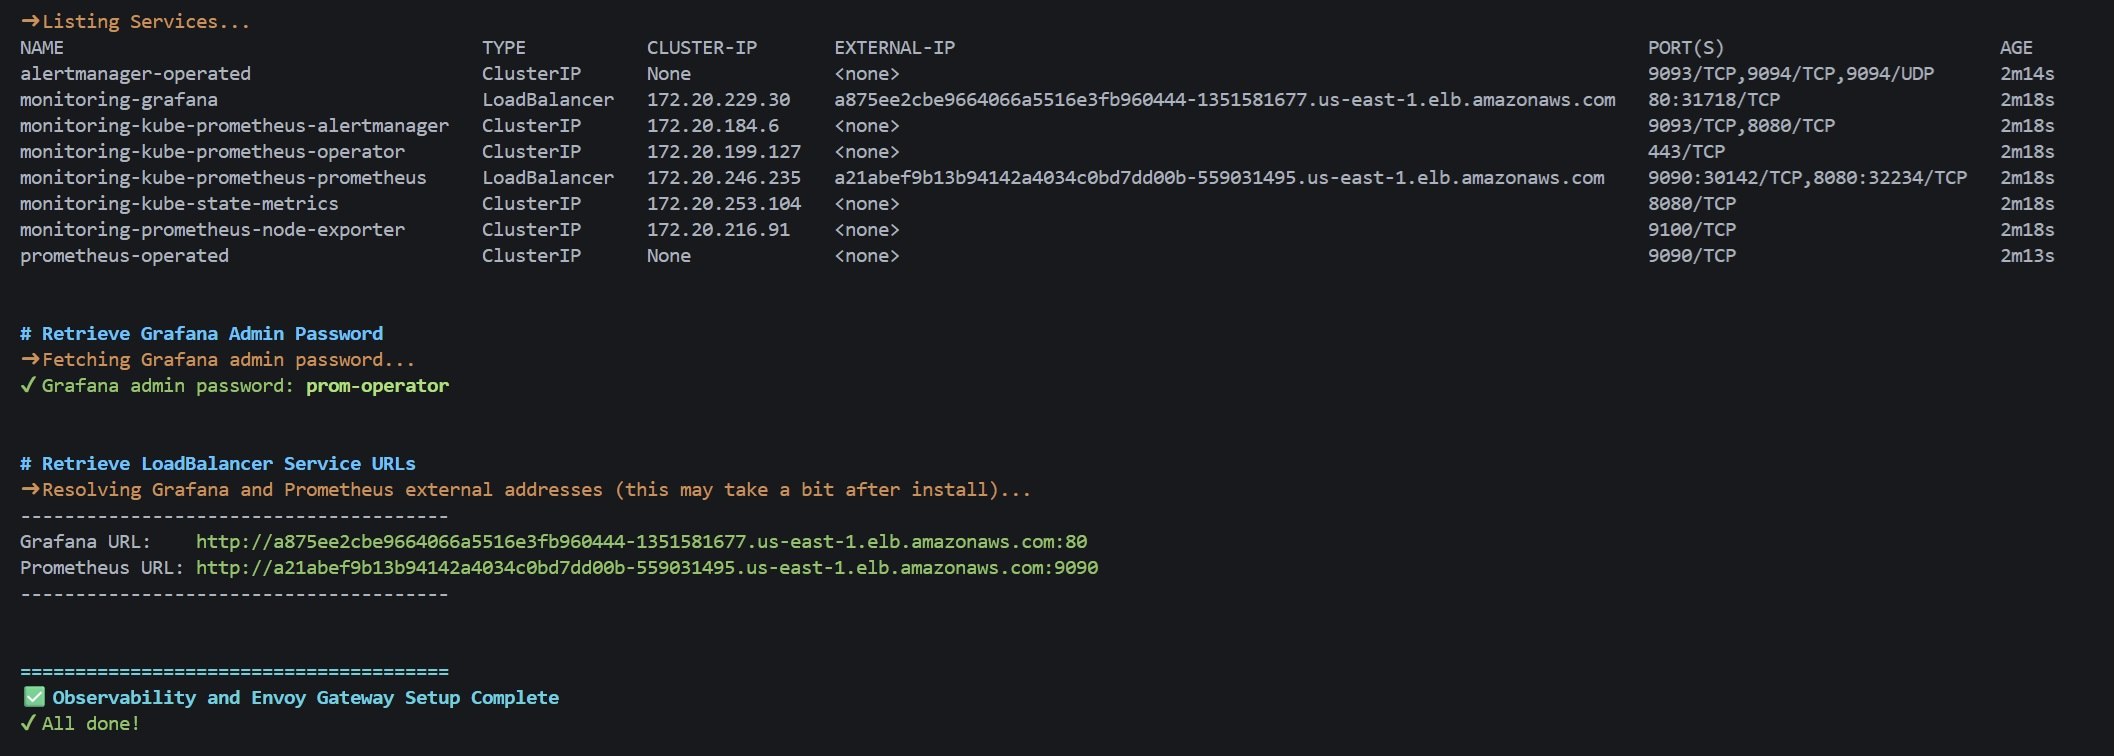
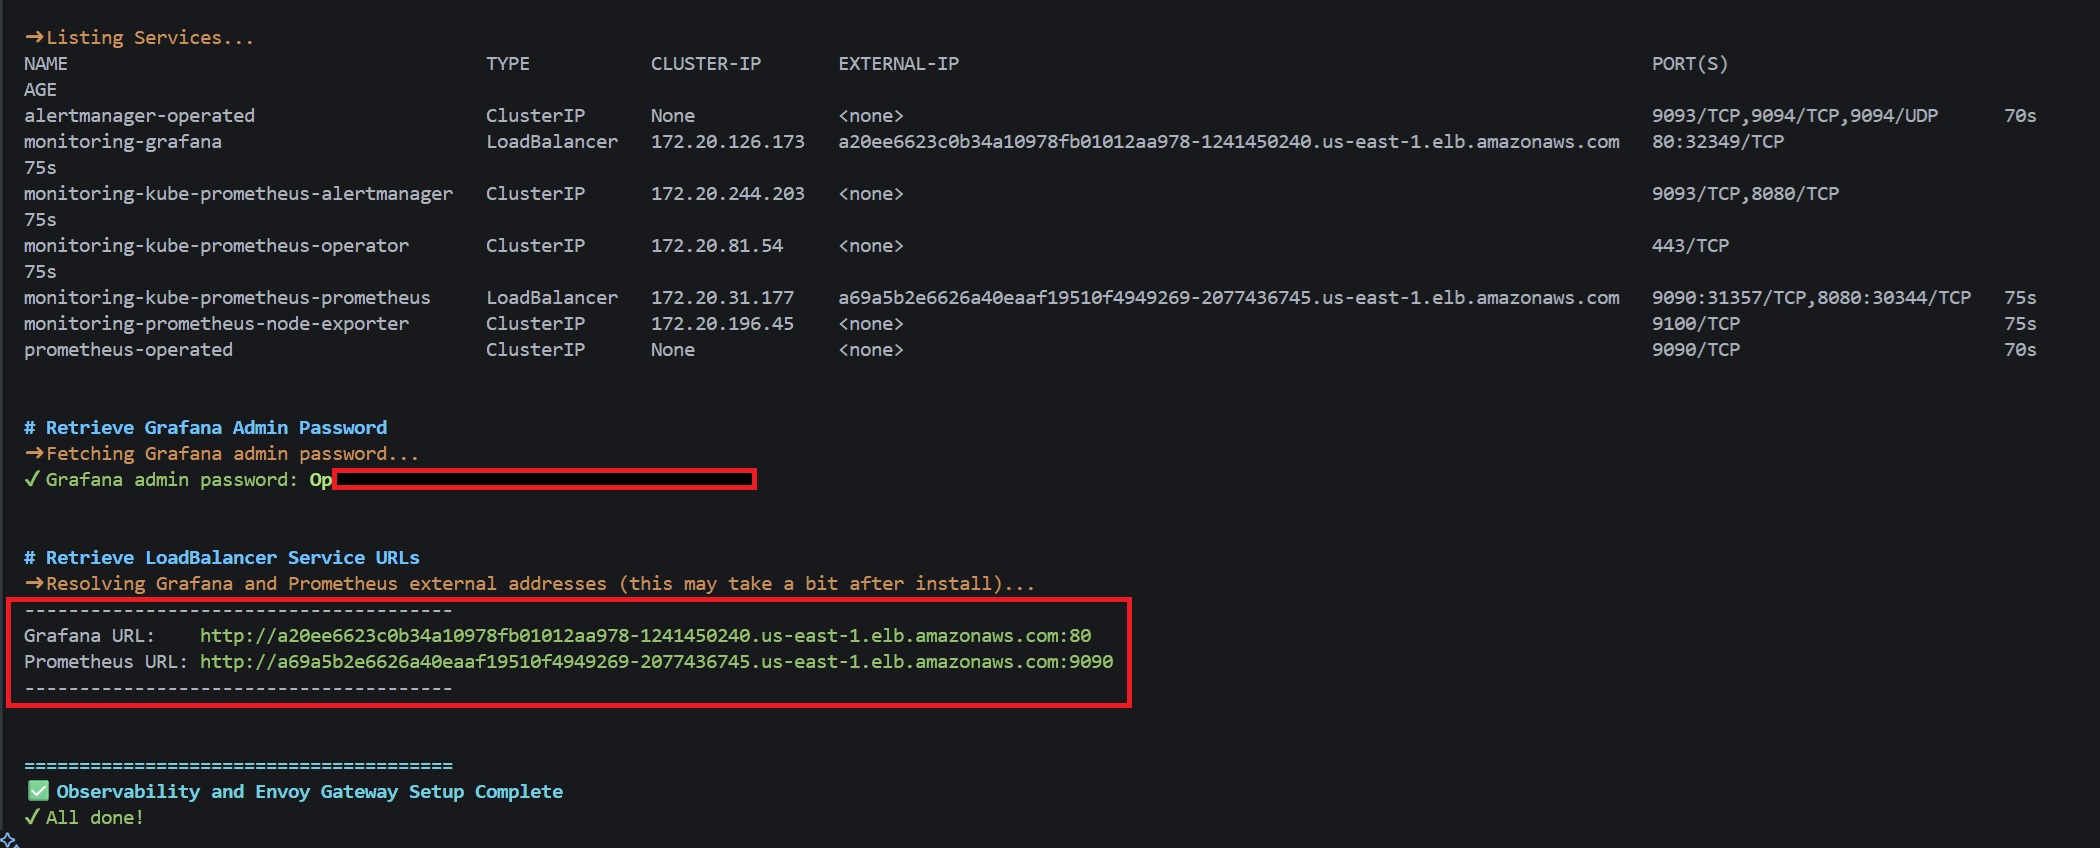
fifth commit

Changed region(s): [[0.0, 0.0, 0.9905, 0.578], [0.0, 0.6085, 0.5571, 0.8519], [0.0, 0.8823, 0.2786, 1.0]]

diff --git a/DEPLOY.md b/DEPLOY.md
@@ -12,7 +12,7 @@ This guide outlines the steps to deploy, manage, and remove a Kubernetes monitor
 
 ## Demo Video
 
-[![Armageddon 6.0 Demo](demo.jpg)](https://youtu.be/3PuD6LLB7MA)
+[![Task 1 Demo](https://img.youtube.com/vi/Ur_WtZtClqc/0.jpg)](https://www.youtube.com/watch?v=Ur_WtZtClqc)
 
 ---
 

diff --git a/README.md b/README.md
@@ -149,6 +149,9 @@ openid_connect_provider = {
 
 ### Step 2 – Deploy Observability Stack
 
+> [WARNING!]
+> You must run Docker Desktop before you deploy the script.
+
 Run the automated installation script:
 
 ```bash
